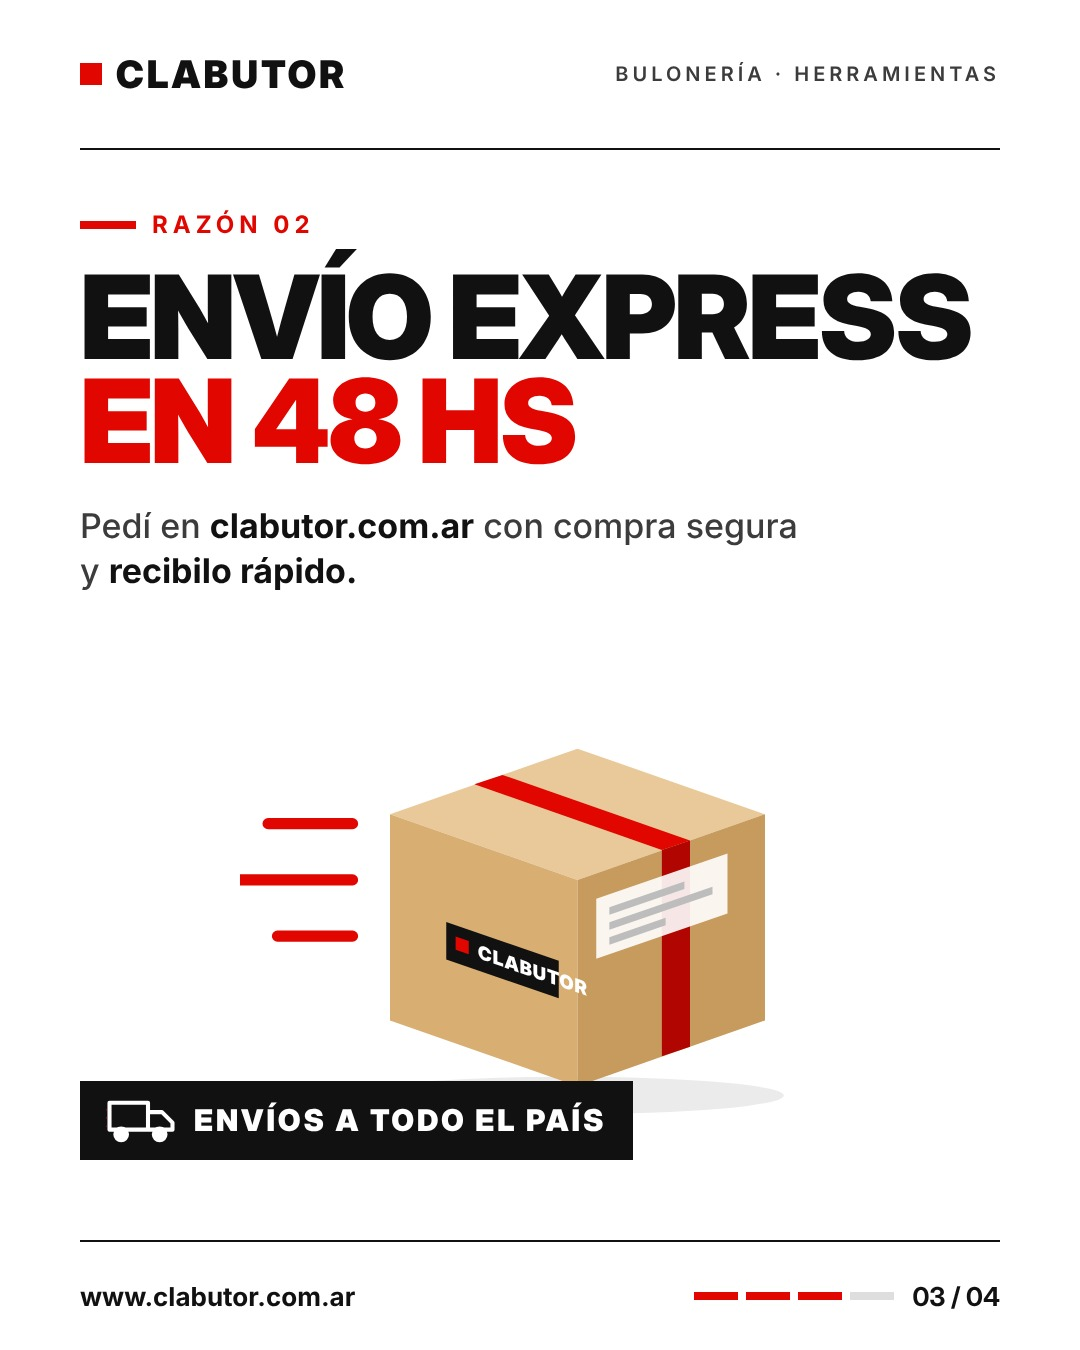
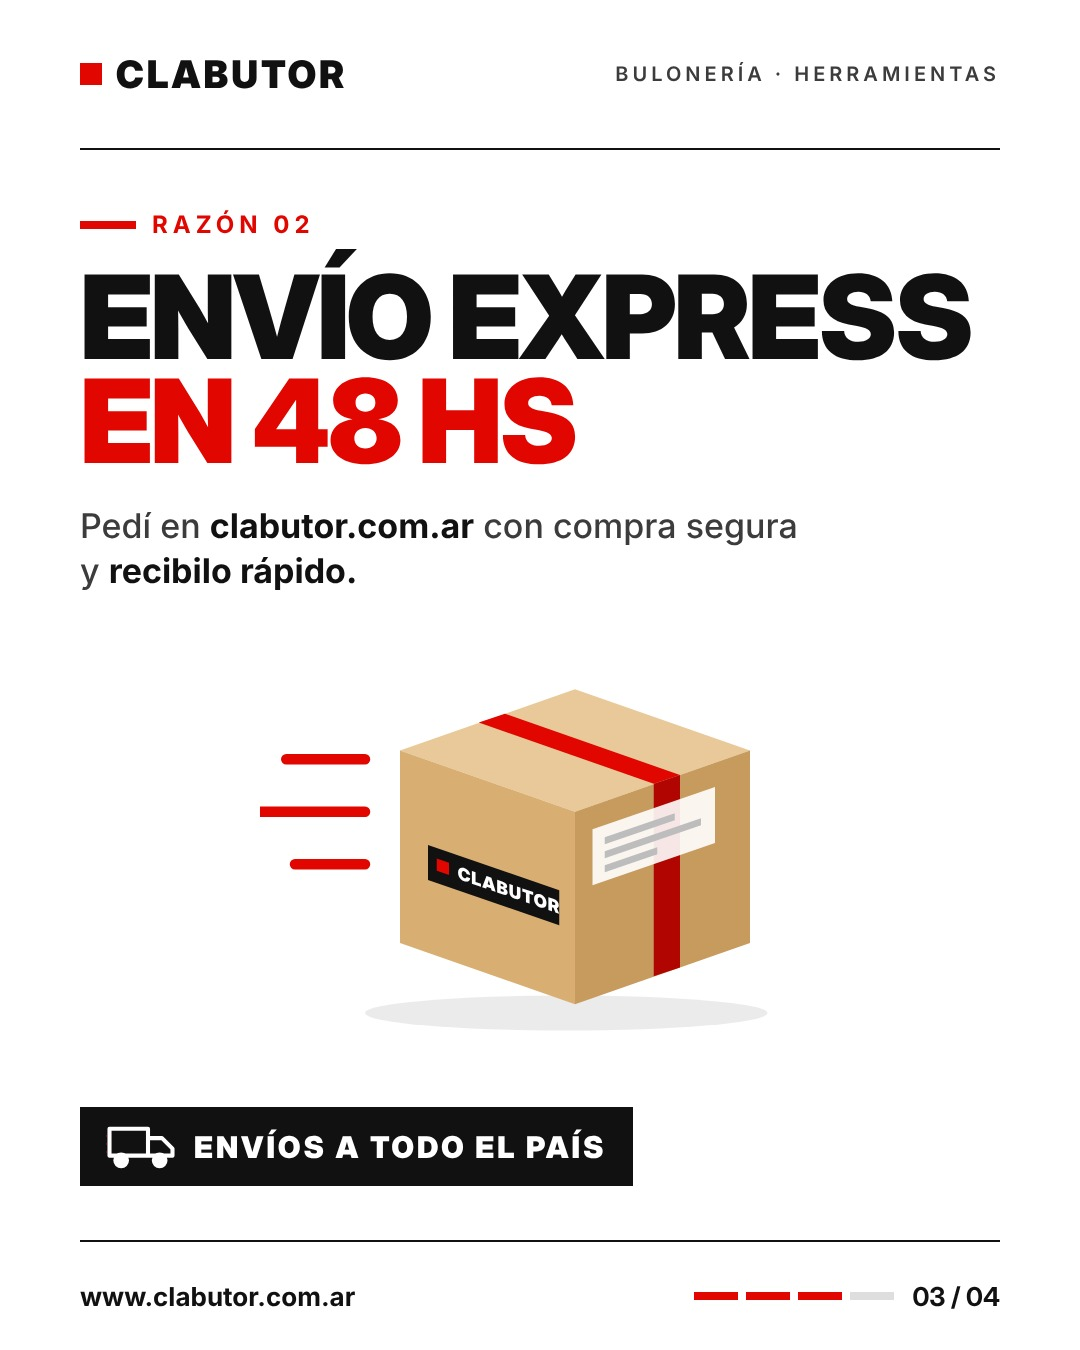
Posteo 3: caja centrada y completa en la placa 3
Claude-Session: https://claude.ai/code/session_01XbJLpPx7CCs1ipZpL6GiAh

Changed region(s): [[0.0611, 0.4978, 0.7333, 0.9022]]

diff --git a/disenos/posteos/posteo-03.py b/disenos/posteos/posteo-03.py
@@ -34,7 +34,7 @@ def camion(tam=150, color="#111"):
 
 def caja():
     """Caja de envío con la cinta de Clabutor, saliendo en camino (líneas de velocidad)."""
-    return f'''<svg viewBox="0 0 640 470" width="600" xmlns="http://www.w3.org/2000/svg">
+    return f'''<svg viewBox="0 0 640 470" width="560" xmlns="http://www.w3.org/2000/svg">
   <ellipse cx="350" cy="440" rx="230" ry="20" fill="#000" opacity=".08"/>
   <path d="M30 150h90M0 210h120M40 270h80" stroke="{ROJO}" stroke-width="12" stroke-linecap="round"/>
   <polygon points="160,140 360,70 560,140 360,210" fill="#E9C99A"/>
@@ -43,8 +43,8 @@ def caja():
   <polygon points="240,112 440,182 440,212 240,142" fill="{ROJO}" opacity=".0"/>
   <polygon points="250,108 280,98 480,168 450,178" fill="{ROJO}"/>
   <polygon points="450,178 480,168 480,388 450,398" fill="#B00500"/>
-  <g transform="translate(220 255) skewY(19)">
-    <rect x="0" y="0" width="120" height="40" fill="#111"/>
+  <g transform="translate(192 248) skewY(19)">
+    <rect x="0" y="0" width="150" height="40" fill="#111"/>
     <rect x="10" y="12" width="14" height="14" fill="{ROJO}"/>
     <text x="34" y="27" font-family="Titular" font-weight="900" font-size="20" letter-spacing="1" fill="#fff">CLABUTOR</text>
   </g>
@@ -95,9 +95,9 @@ def placas(g):
 <div class="volanta">Razón 02</div>
 <h1 style="font-size:116px">Envío express<br><em>en 48 hs</em></h1>
 <p class="bajada" style="font-size:34px">Pedí en <b>clabutor.com.ar</b> con compra segura<br>y <b>recibilo rápido.</b></p>
-<div style="position:relative;margin-top:30px;height:560px;display:flex;align-items:center;justify-content:center">
-  {caja()}
-  <div style="position:absolute;left:0;bottom:24px;display:flex;align-items:center;gap:18px;background:#111;color:#fff;padding:16px 26px">
+<div style="position:absolute;left:80px;right:80px;top:560px;bottom:140px;display:flex;flex-direction:column">
+  <div style="flex:1;min-height:0;display:flex;align-items:center;justify-content:center">{caja()}</div>
+  <div style="align-self:flex-start;display:flex;align-items:center;gap:18px;background:#111;color:#fff;padding:16px 26px;margin-bottom:24px">
     {camion(70, "#fff")}<span style="font-family:Titular;font-weight:900;font-size:30px;letter-spacing:3px">ENVÍOS A TODO EL PAÍS</span>
   </div>
 </div>
